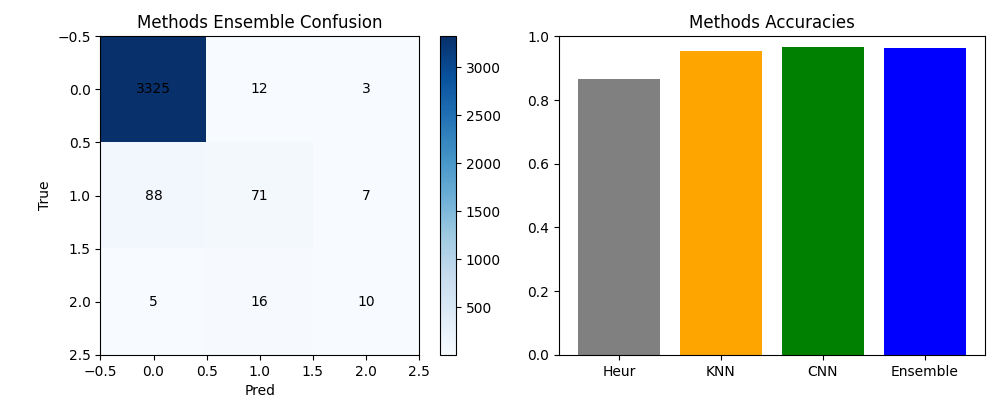
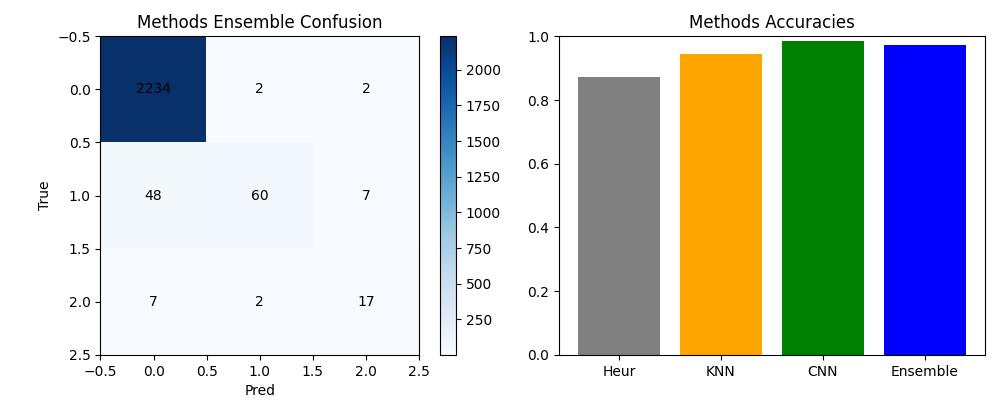
Added pdf description and readme.md description

diff --git a/src/heuristics.py b/src/heuristics.py
@@ -4,6 +4,8 @@ import re
 from dataclasses import dataclass
 from typing import List, Tuple
 
+from javalang.tree import MethodDeclaration
+
 try:
     import javalang  # type: ignore
 except Exception:  # javalang will be added to requirements
@@ -11,6 +13,22 @@ except Exception:  # javalang will be added to requirements
 
 
 _CAMEL_RE = re.compile(r"^[a-z]+(?:[A-Z][a-z0-9]*)*$")
+
+
+def get_all_vars_from_method(method_obj: MethodDeclaration) -> List[str]:
+    vars = []
+
+    # Add parameter names
+    if method_obj.parameters:
+        for param in method_obj.parameters:
+            vars.append(param.name)
+
+    # Add local variable declarations
+    for _, node in method_obj.filter(javalang.tree.LocalVariableDeclaration):
+        for declarator in node.declarators:
+            vars.append(declarator.name)
+
+    return vars
 
 
 def is_camel_case(name: str) -> bool:
@@ -30,31 +48,46 @@ def comment_chars(src: str) -> int:
     return total
 
 
-def deepest_brace_nesting(src: str) -> int: # TODO: maybe could be improved
-    depth = best = 0
-    in_str = False
-    esc = False
-    for ch in src:
-        if ch == '"' and not esc:
-            in_str = not in_str
-        esc = (ch == "\\" and not esc)
-        if in_str:
-            continue
-        if ch == "{":
-            depth += 1
-            best = max(best, depth)
-        elif ch == "}":
-            depth = max(0, depth - 1)
-    return best
+def deepest_brace_nesting(method_obj: MethodDeclaration) -> int:
+    # Statements that increase nesting depth
+    nesting_nodes = (
+        javalang.tree.IfStatement,
+        javalang.tree.ForStatement,
+        javalang.tree.WhileStatement,
+        javalang.tree.DoStatement,
+        javalang.tree.SwitchStatement,
+        javalang.tree.TryStatement,
+        javalang.tree.SynchronizedStatement,
+        javalang.tree.BlockStatement,
+    )
+    
+    max_depth = 0
+    for path, node in method_obj.filter(nesting_nodes):
+        # Count how many nesting nodes are in the path (ancestors)
+        depth = sum(1 for ancestor in path if isinstance(ancestor, nesting_nodes))
+        max_depth = max(max_depth, depth)
+    
+    return max_depth
 
 
 def longest_line_len(src: str) -> int:
     return max((len(line) for line in src.splitlines() or [""]), default=0)
 
 
-def cyclomatic_approx(src: str) -> int: # TODO: could be improved
-    # basic approx: count branching keywords / boolean ops
-    return sum(len(re.findall(pat, src)) for pat in [r"\bif\b", r"\bfor\b", r"\bwhile\b", r"\bcase\b", r"\bcatch\b", r"&&", r"\|\|", r"\?\s*:"])
+def cyclomatic_approx(method_obj: MethodDeclaration) -> int: # Unfortunately this won't work for recursive calls
+    loop_nodes = (
+        javalang.tree.ForStatement,
+        javalang.tree.WhileStatement,
+        javalang.tree.DoStatement,
+    )
+    
+    max_depth = 0
+    for path, node in method_obj.filter(loop_nodes):
+        # Count how many loop nodes are in the path (ancestors)
+        depth = sum(1 for ancestor in path if isinstance(ancestor, loop_nodes))
+        max_depth = max(max_depth, depth)
+    
+    return max_depth
 
 
 def returns_count(src: str) -> int:
@@ -72,12 +105,13 @@ class HeuristicResult:
 
 # --- Feature bin helpers (0 good, 1 medium, 2 bad) ---
 
-def bin_by_thresholds(val: float, t1: float, t2: float) -> int:
-    if val < t1:
+def bin_by_thresholds(val: float, t1: float, t2: float, min: float = 0.0) -> int:
+    if val < min or val >= t2:
+        return 2
+    elif val < t1:
         return 0
-    if val < t2:
-        return 1
-    return 2
+
+    return 1
 
 
 def map_bins_to_label(avg_bin: float) -> Tuple[int, float, List[float]]:
@@ -98,31 +132,37 @@ def map_bins_to_label(avg_bin: float) -> Tuple[int, float, List[float]]:
 
 # --- Public API ---
 
-def method_heuristics(method_src: str, method_name: str, parameters: List[str]) -> HeuristicResult:
-    name_len = len(method_name or "")
-    name_special = count_special_chars(method_name)
-    name_camel = 0 if is_camel_case(method_name) else 2
+def method_heuristics(method_src: str, method_obj: MethodDeclaration) -> HeuristicResult:
+    name_len = len(method_obj.name)
+    name_special = count_special_chars(method_obj.name)
+    name_camel = 0 if is_camel_case(method_obj.name) else 2
 
-    loc = len([l for l in method_src.splitlines() if l.strip()])
-    n_params = len(parameters)
+    all_vars = get_all_vars_from_method(method_obj) # TODO: Mean may not be the best possible way to calculate this
+    variable_len = sum(len(var) for var in all_vars) / len(all_vars) if all_vars else 0
+    variable_special = sum(count_special_chars(var) for var in all_vars) / len(all_vars) if all_vars else 0
+    variable_camel = max(2, sum(1 for var in all_vars if not is_camel_case(var))) if all_vars else 0
+
+    method_length = len([l for l in method_src.splitlines()])
+    n_params = len(method_obj.parameters)
     comm = comment_chars(method_src)
-    indent = deepest_brace_nesting(method_src)
+    indent = deepest_brace_nesting(method_obj)
     long_line = longest_line_len(method_src)
-    cyc = cyclomatic_approx(method_src)
+    cyc = cyclomatic_approx(method_obj)
     rets = returns_count(method_src)
 
-    # TODO: Check parameter names, check if all heuristics are respected here
-
     bins = [
-        bin_by_thresholds(name_len, 3, 21),  # 3+ && <20, 21+
-        bin_by_thresholds(name_special, 1, 2),  # 0,1,2+
+        bin_by_thresholds(name_len, 11, 21, 3),
+        bin_by_thresholds(name_special, 1, 2),
         name_camel,
-        bin_by_thresholds(loc, 10, 31),
+        bin_by_thresholds(variable_len, 8, 15),
+        bin_by_thresholds(variable_special, 1, 2),
+        variable_camel,
+        bin_by_thresholds(method_length, 10, 31),
         bin_by_thresholds(n_params, 2, 5),
         bin_by_thresholds(comm, 50, 101),
         bin_by_thresholds(indent, 3, 5),
         bin_by_thresholds(long_line, 80, 111),
-        bin_by_thresholds(cyc, 4, 8),  # rough mapping
+        bin_by_thresholds(cyc, 2, 3),
         bin_by_thresholds(rets, 2, 4),
     ]
 
@@ -133,7 +173,10 @@ def method_heuristics(method_src: str, method_name: str, parameters: List[str]) 
         name_len,
         name_special,
         1 if name_camel == 0 else 0,
-        loc,
+        variable_len,
+        variable_special,
+        1 if variable_camel == 0 else 0,
+        method_length,
         n_params,
         comm,
         indent,
@@ -145,6 +188,9 @@ def method_heuristics(method_src: str, method_name: str, parameters: List[str]) 
         "name_len",
         "name_special",
         "is_camel",
+        "variable_len",
+        "variable_special",
+        "variable_camel",
         "loc",
         "n_params",
         "comment_chars",

diff --git a/src/data.py b/src/data.py
@@ -6,10 +6,11 @@ from typing import List, Tuple, Dict
 
 import numpy as np
 import pandas as pd
+from javalang.tree import MethodDeclaration
 from sklearn.model_selection import train_test_split
 
-from .tokenizer import java_code_tokenize, SimpleVocab
-from .heuristics import method_heuristics, class_heuristics
+from src.tokenizer import java_code_tokenize, SimpleVocab
+from src.heuristics import method_heuristics, class_heuristics
 
 
 @dataclass
@@ -30,6 +31,18 @@ def load_csv_for_kind(kind: str) -> pd.DataFrame:
         raise FileNotFoundError(f"Expected dataset at {expected} not found.")
     # drop rows with any nulls
     df = df.dropna(how="any").reset_index(drop=True)
+
+    # drop rows with unparseable code snippets (methods only for now)
+    if kind == "methods":
+        code_col = df.columns[0]
+        def is_parseable(code):
+            try:
+                return get_method_object(str(code)) is not None
+            except:
+                return False
+        valid_mask = df[code_col].apply(is_parseable)
+        df = df[valid_mask].reset_index(drop=True)
+
     return df
 
 
@@ -55,18 +68,15 @@ def split_df(df: pd.DataFrame, test_size: float = 0.2, seed: int = 42) -> Split:
 
 # --- Lightweight helpers for signature extraction ---
 import re
+import javalang
 
 
-def guess_method_signature(code: str) -> Tuple[str, List[str]]:
-    # naive: match 'returnType name(type p1, type p2) {'
-    m = re.search(r"\b([a-zA-Z_][\w]*)\s*\(([^)]*)\)\s*\{", code)
-    if not m:
-        return "method", []
-    name = m.group(1)
-    params = [p.strip() for p in m.group(2).split(",") if p.strip()]
-    # take only param names if present else types
-    params = [pp.split()[-1] if " " in pp else pp for pp in params]
-    return name, params
+def get_method_object(code: str) -> MethodDeclaration:
+    # Wrap method in a class because this library won't work otherwise :)
+    wrapped_code = f"class TempClass {{ {code} }}"
+    tree = javalang.parse.parse(wrapped_code)
+    for _, node in tree.filter(javalang.tree.MethodDeclaration):
+        return node
 
 
 def guess_class_name(code: str) -> str:
@@ -80,8 +90,8 @@ def compute_method_features(codes: List[str]) -> Tuple[np.ndarray, List[int], Li
     feats: List[List[float]] = []
     labels_h: List[int] = []
     for src in codes:
-        name, params = guess_method_signature(src)
-        h = method_heuristics(src, name, params)
+        method_obj = get_method_object(src)
+        h = method_heuristics(src, method_obj)
         feats.append(h.features)
         labels_h.append(h.label)
 
@@ -110,3 +120,11 @@ def build_vocab_from_texts(texts: List[str], max_size: int = 30000, min_freq: in
 def encode_texts(texts: List[str], vocab: SimpleVocab, max_len: int = 512) -> np.ndarray:
     arr = np.stack([np.array(vocab.encode(java_code_tokenize(t), max_len=max_len), dtype=np.int64) for t in texts])
     return arr
+
+if __name__ == "__main__":
+    method_code = """
+    public void something(int a, int b) {
+        int c = a + b;
+        System.out.println(c);
+    }"""
+    print(get_method_object(method_code))

diff --git a/evaluation/evaluate_pipeline.py b/evaluation/evaluate_pipeline.py
@@ -10,7 +10,7 @@ from sklearn.metrics import accuracy_score, confusion_matrix
 from sklearn.neighbors import KNeighborsClassifier
 import torch
 
-from src.data import load_csv_for_kind, split_df, compute_method_features, compute_class_features, build_vocab_from_texts, encode_texts, guess_method_signature
+from src.data import load_csv_for_kind, split_df, compute_method_features, compute_class_features, build_vocab_from_texts, encode_texts, get_method_object
 from src.heuristics import method_heuristics, class_heuristics
 from src.tokenizer import SimpleVocab, java_code_tokenize
 from src.models.cnn import TextCNN
@@ -61,8 +61,8 @@ def predict_heuristics(kind: str, texts: List[str]) -> Tuple[np.ndarray, np.ndar
     preds = []
     if kind == "methods":
         for src in texts:
-            name, params = guess_method_signature(src)
-            h = method_heuristics(src, name, params)
+            method_obj = get_method_object(src)
+            h = method_heuristics(src, method_obj)
             probs.append(h.proba)
             preds.append(h.label)
     else:
